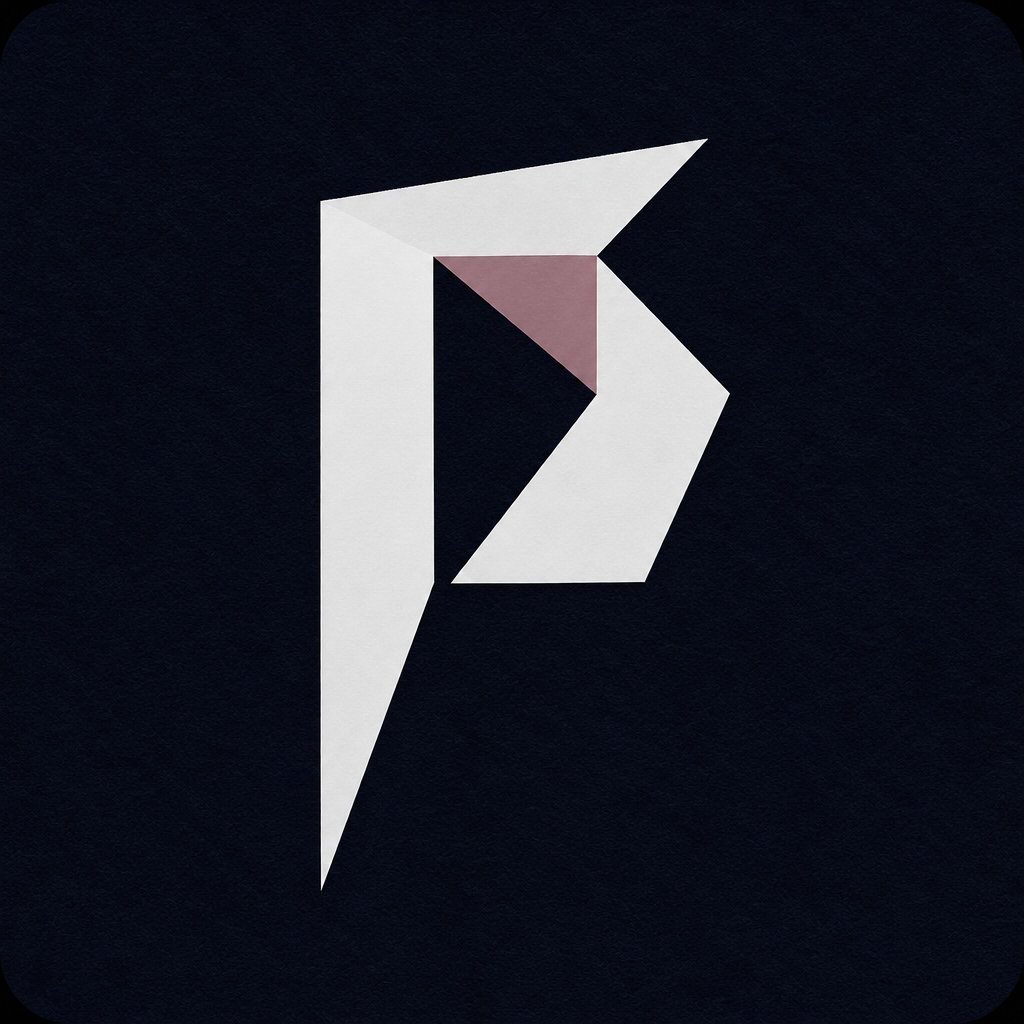
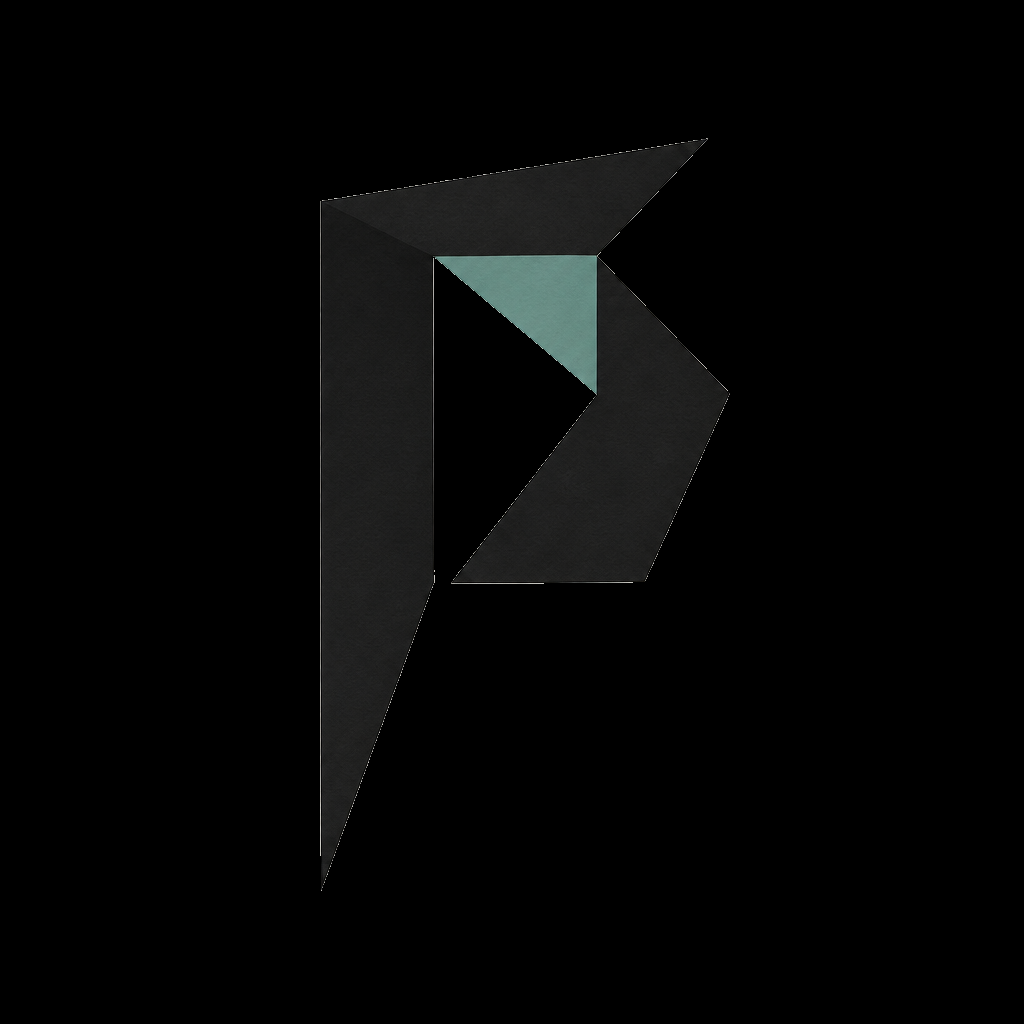
Use Paplyn square mark + text in header and email chrome
- Save official folded-P mark on black as paplyn-mark.png (dark variant matches)
- Regenerate favicon.ico and PNG icons from the square mark (contain, black field)
- Render header lockup as 32px mark plus PRODUCT_NAME text, not wordmark PNGs
- Update email templates to use mark + product name instead of wide wordmark card
- Keep paplyn-wordmark-light/dark for OG/social only

diff --git a/packages/web/src/lib/email/templates.test.ts b/packages/web/src/lib/email/templates.test.ts
@@ -9,14 +9,14 @@ import { PRODUCT_NAME } from "@/lib/product";
 
 const APP_URL = "https://app.paplyn.test";
 
-function expectBrandedWordmarkHeader(html: string, appUrl = APP_URL): void {
+function expectBrandedHeader(html: string, appUrl = APP_URL): void {
   const base = appUrl.replace(/\/$/, "");
-  expect(html).toContain(`${base}/brand/paplyn-wordmark-light.png`);
-  expect(html).toContain(`alt="${PRODUCT_NAME}"`);
-  expect(html).toContain('align="center"');
-  expect(html).toContain("display:block;margin:0 auto");
-  expect(html).not.toMatch(/width:28px;height:28px/);
-  expect(html).not.toMatch(/Georgia.*>P</);
+  expect(html).toContain(`${base}/brand/paplyn-mark.png`);
+  expect(html).toContain(`>${PRODUCT_NAME}</span>`);
+  expect(html).toContain('width="32"');
+  expect(html).toContain('height="32"');
+  expect(html).not.toContain("/brand/paplyn-wordmark-light.png");
+  expect(html).not.toContain("/brand/paplyn-wordmark-dark.png");
 }
 
 describe("email templates", () => {
@@ -36,13 +36,13 @@ describe("email templates", () => {
     expect(html).toContain("Dissertation Draft");
     expect(html).toContain(inviteUrl);
     expect(html).toContain("Open the manuscript");
-    expectBrandedWordmarkHeader(html);
+    expectBrandedHeader(html);
     expect(text).toContain("Dissertation Draft");
     expect(text).toContain(inviteUrl);
     expect(text).toContain("Can edit");
   });
 
-  it("renders project-added email with wordmark and project URL", () => {
+  it("renders project-added email with mark lockup and project URL", () => {
     const projectUrl = "https://app.paplyn.test/project/proj-1";
     const { subject, html, text } = renderProjectAddedEmail({
       ownerName: "Ada Lovelace",
@@ -57,11 +57,11 @@ describe("email templates", () => {
     );
     expect(html).toContain("added you to");
     expect(html).toContain(projectUrl);
-    expectBrandedWordmarkHeader(html);
+    expectBrandedHeader(html);
     expect(text).toContain(projectUrl);
   });
 
-  it("renders reset password email with branded wordmark header", () => {
+  it("renders reset password email with branded mark header", () => {
     const resetUrl = "https://app.paplyn.test/reset/token-abc";
     const { subject, html, text } = renderResetPasswordEmail({
       userName: "Ada Lovelace",
@@ -72,11 +72,11 @@ describe("email templates", () => {
     expect(subject).toBe(`Reset your ${PRODUCT_NAME} password`);
     expect(html).toContain("Reset password");
     expect(html).toContain(resetUrl);
-    expectBrandedWordmarkHeader(html);
+    expectBrandedHeader(html);
     expect(text).toContain(resetUrl);
   });
 
-  it("builds wordmark URL from appUrl without trailing slash", () => {
+  it("builds mark URL from appUrl without trailing slash", () => {
     const { html } = renderInviteEmail({
       ownerName: "Owner",
       projectName: "Paper",
@@ -85,7 +85,7 @@ describe("email templates", () => {
       appUrl: "https://app.paplyn.test/",
     });
 
-    expect(html).toContain("https://app.paplyn.test/brand/paplyn-wordmark-light.png");
+    expect(html).toContain("https://app.paplyn.test/brand/paplyn-mark.png");
     expect(html).not.toContain("https://app.paplyn.test//brand/");
   });
 
@@ -102,7 +102,7 @@ describe("email templates", () => {
     expect(html).not.toContain("<script>");
     expect(html).toContain(escapeHtml(maliciousTitle));
     expect(html).toContain("&lt;evil&gt;");
-    expectBrandedWordmarkHeader(html);
+    expectBrandedHeader(html);
     expect(text).toContain(maliciousTitle);
   });
 });

diff --git a/packages/web/src/components/plicum-wordmark.tsx b/packages/web/src/components/plicum-wordmark.tsx
@@ -4,50 +4,52 @@ import { PRODUCT_NAME } from "@/lib/product";
 
 /** Public paths for brand assets (see packages/web/public/brand/). */
 export const BRAND = {
+  /** Square folded-P mark — header, favicon, and app icon. */
+  mark: "/brand/paplyn-mark.png",
+  markDark: "/brand/paplyn-mark-dark.png",
+  /** Wide wordmark cards — OG / social preview only, not for in-app chrome. */
   wordmarkLight: "/brand/paplyn-wordmark-light.png",
   wordmarkDark: "/brand/paplyn-wordmark-dark.png",
-  /** Square folded-P mark — favicon / app icon only, not for headers. */
-  iconFoldedP: "/brand/paplyn-mark.png",
-  iconMarkDark: "/brand/paplyn-mark-dark.png",
-  /** Open Graph / social preview (wordmark on paper). */
   ogImage: "/brand/paplyn-wordmark-light.png",
+  /** @deprecated Use BRAND.mark */
+  iconFoldedP: "/brand/paplyn-mark.png",
+  /** @deprecated Use BRAND.markDark */
+  iconMarkDark: "/brand/paplyn-mark-dark.png",
   favicon: "/brand/favicon.ico",
   appleTouchIcon: "/brand/apple-touch-icon.png",
 } as const;
 
-/** Wordmark raster dimensions for next/image (paplyn-wordmark-*.png). */
-const WORDMARK_WIDTH = 1536;
-const WORDMARK_HEIGHT = 1024;
+/** Square mark raster size for next/image (paplyn-mark.png). */
+const MARK_SIZE = 1024;
 
 type PlicumWordmarkProps = {
-  /** Tailwind height class — word scales to header height. */
+  /** Tailwind height class for the square mark (text scales alongside). */
   className?: string;
   priority?: boolean;
 };
 
 /**
- * Theme-aware product wordmark. Shows the light mark in light mode and the dark
- * mark in dark mode — never both at once.
+ * Header lockup: square folded-P mark plus product name as text.
+ * Does not use the wide wordmark PNG cards in chrome.
  */
 export function PlicumWordmark({ className, priority }: PlicumWordmarkProps) {
   return (
-    <span className={cn("relative inline-flex shrink-0", className)}>
+    <span
+      className={cn("inline-flex items-center gap-2.5 shrink-0", className)}
+      aria-label={PRODUCT_NAME}
+    >
       <Image
-        src={BRAND.wordmarkLight}
-        alt={PRODUCT_NAME}
-        width={WORDMARK_WIDTH}
-        height={WORDMARK_HEIGHT}
+        src={BRAND.mark}
+        alt=""
+        width={MARK_SIZE}
+        height={MARK_SIZE}
         priority={priority}
-        className="h-full w-auto dark:hidden"
+        className="h-full w-auto aspect-square shrink-0"
+        aria-hidden
       />
-      <Image
-        src={BRAND.wordmarkDark}
-        alt={PRODUCT_NAME}
-        width={WORDMARK_WIDTH}
-        height={WORDMARK_HEIGHT}
-        priority={priority}
-        className="hidden h-full w-auto dark:block"
-      />
+      <span className="font-serif text-[1.125em] font-semibold leading-none tracking-tight text-navy dark:text-ink">
+        {PRODUCT_NAME}
+      </span>
     </span>
   );
 }

diff --git a/packages/web/src/lib/email/templates.ts b/packages/web/src/lib/email/templates.ts
@@ -19,18 +19,22 @@ export function escapeHtml(text: string): string {
     .replace(/'/g, "&#39;");
 }
 
-function wordmarkImageUrl(appUrl: string): string {
+function markImageUrl(appUrl: string): string {
   const base = (appUrl || DEFAULT_APP_URL).replace(/\/$/, "");
-  return `${base}${BRAND.wordmarkLight}`;
+  return `${base}${BRAND.mark}`;
 }
 
-function wordmarkHtml(appUrl: string): string {
-  const src = escapeHtml(wordmarkImageUrl(appUrl));
+function brandHeaderHtml(appUrl: string): string {
+  const src = escapeHtml(markImageUrl(appUrl));
+  const name = escapeHtml(PRODUCT_NAME);
   return `
     <table role="presentation" cellpadding="0" cellspacing="0" border="0" style="margin:0 auto;">
       <tr>
-        <td align="center" style="text-align:center;">
-          <img src="${src}" alt="${escapeHtml(PRODUCT_NAME)}" width="180" style="display:block;margin:0 auto;height:auto;border:0;outline:none;text-decoration:none;" />
+        <td align="center" style="text-align:center;padding:0 8px 0 0;vertical-align:middle;">
+          <img src="${src}" alt="" width="32" height="32" style="display:block;width:32px;height:32px;border:0;outline:none;text-decoration:none;" />
+        </td>
+        <td align="center" style="text-align:left;vertical-align:middle;">
+          <span style="font-family:Georgia,'Times New Roman',serif;font-size:22px;font-weight:600;line-height:1;color:${INK};">${name}</span>
         </td>
       </tr>
     </table>
@@ -64,7 +68,7 @@ function emailShell({
         <table role="presentation" width="100%" cellpadding="0" cellspacing="0" border="0" style="max-width:560px;">
           <tr>
             <td align="center" style="padding-bottom:24px;text-align:center;">
-              ${wordmarkHtml(appUrl)}
+              ${brandHeaderHtml(appUrl)}
             </td>
           </tr>
           <tr>
